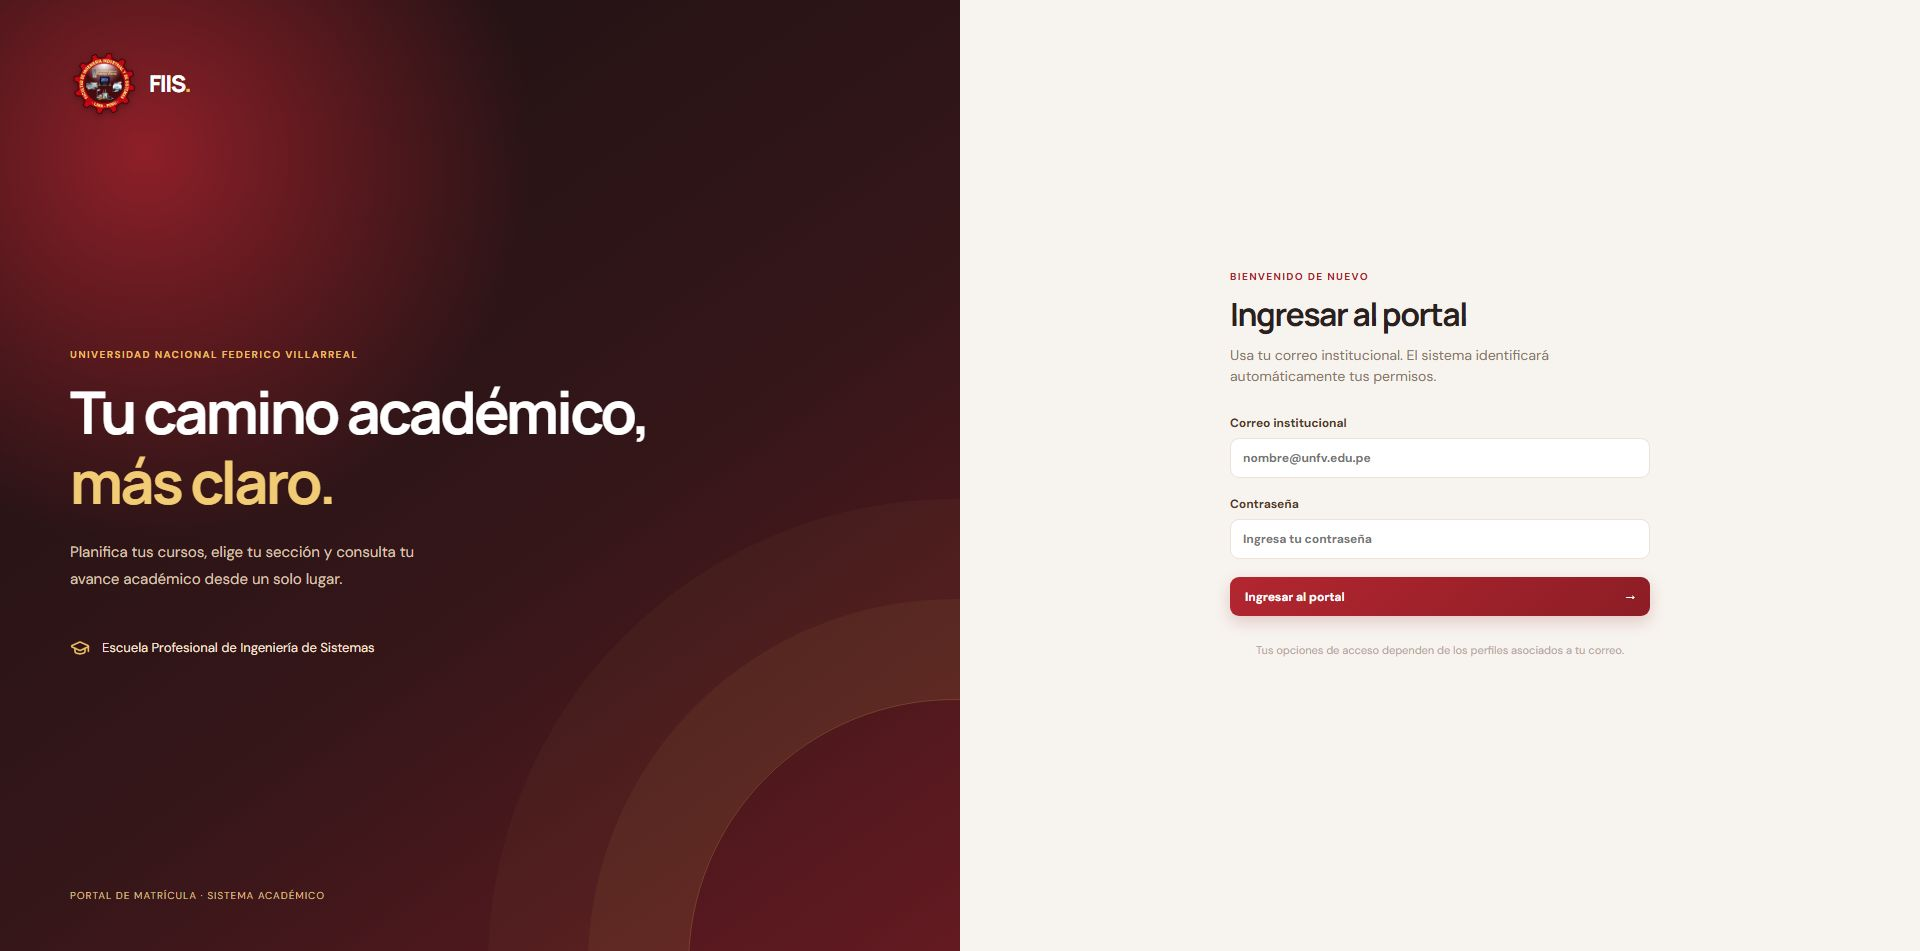
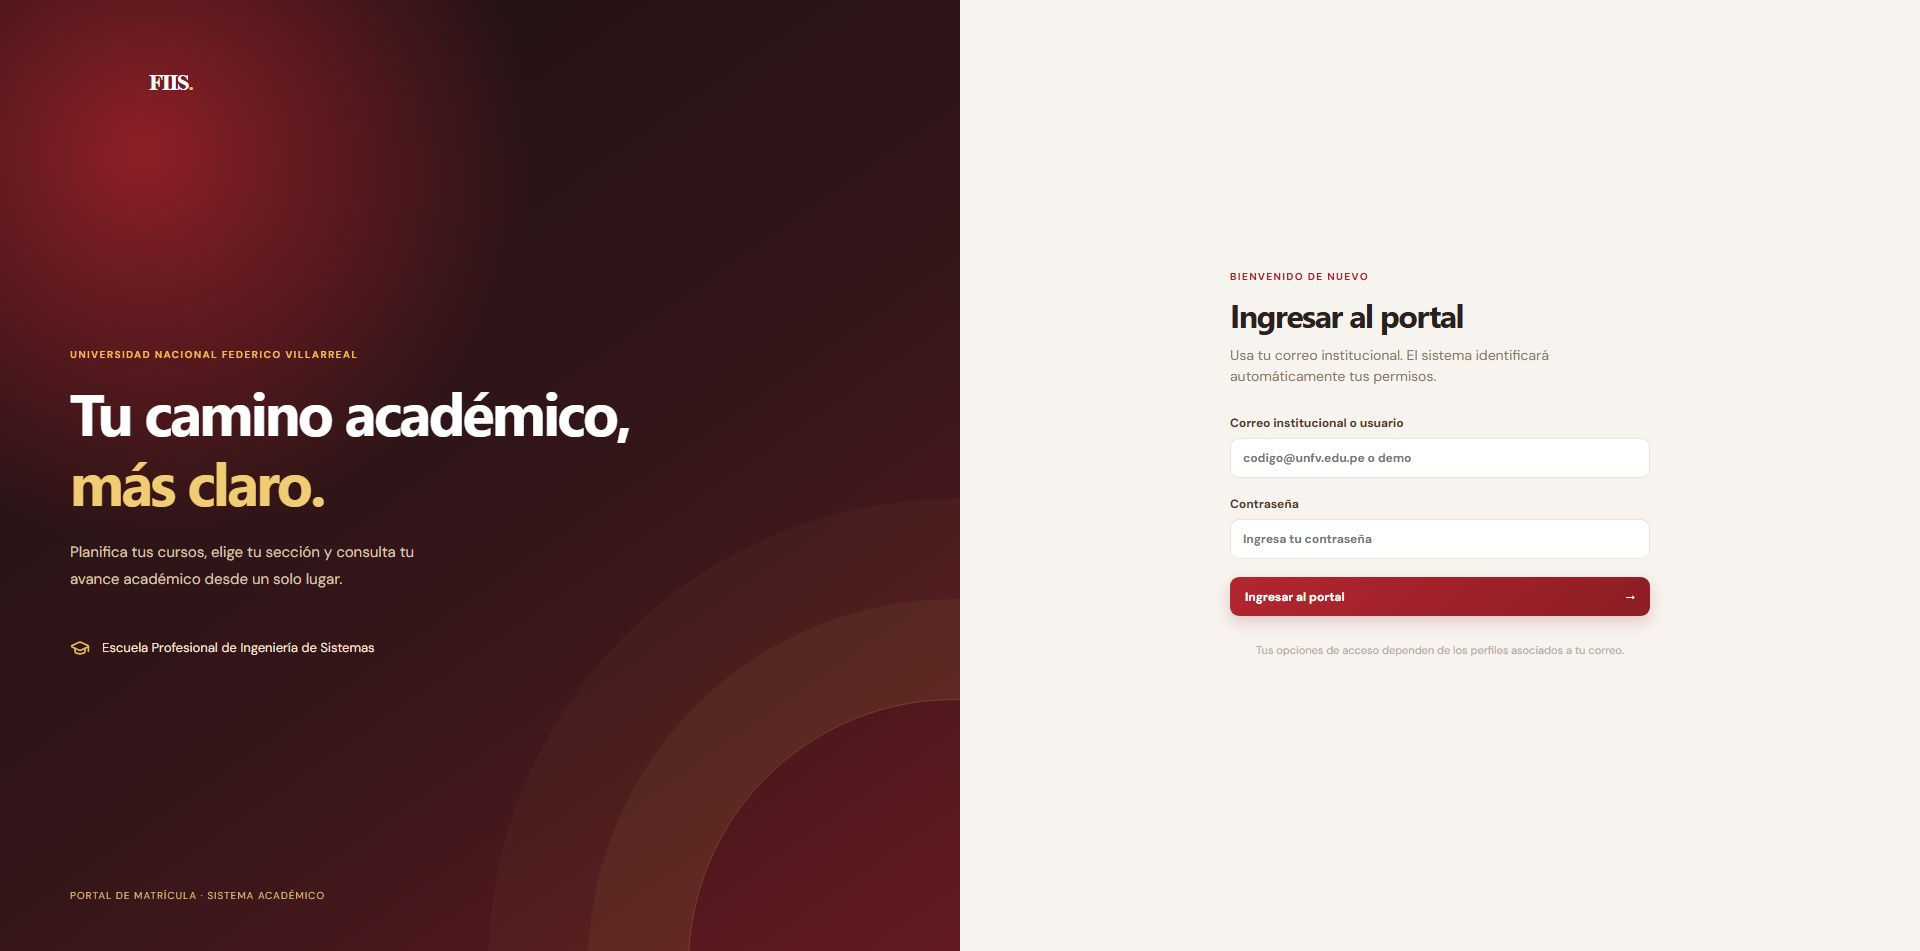
Agregar cuentas de estudiantes y acceso demo unificado

diff --git a/frontend/src/components/Auth.tsx b/frontend/src/components/Auth.tsx
@@ -68,13 +68,13 @@ export function Login({ onLogin }: { onLogin: (identity: Identity) => void }) {
           </p>
           <form onSubmit={submit}>
             <label>
-              Correo institucional
+              Correo institucional o usuario
               <input
-                type="email"
+                type="text"
                 value={email}
                 onChange={(event) => setEmail(event.target.value)}
                 required
-                placeholder="nombre@unfv.edu.pe"
+                placeholder="codigo@unfv.edu.pe o demo"
                 autoComplete="username"
               />
             </label>

diff --git a/backend/core/management/commands/seed_fiis.py b/backend/core/management/commands/seed_fiis.py
@@ -199,51 +199,56 @@ class Command(BaseCommand):
         for r in unmatched:
             self.stdout.write(f"  REVISAR {r['period']} fila {r['row']} {r['name']} / {r['section']}")
         if options["demo_users"]:
-            admin, created = User.objects.get_or_create(
-                username="admin.demo", defaults={"is_staff": True, "is_superuser": True}
-            )
-            if created:
-                admin.set_password("AdminDemo2026!")
-                admin.save()
-            if not admin.email:
-                admin.email = "admin.demo@unfv.edu.pe"
-                admin.save(update_fields=["email"])
-            user, created = User.objects.get_or_create(username="alumno.demo")
-            if created:
-                user.set_password("AlumnoDemo2026!")
+            demo, _ = User.objects.get_or_create(username="demo")
+            demo.email = "demo@unfv.edu.pe"
+            demo.is_staff = True
+            demo.is_superuser = True
+            demo.set_password("demo")
+            demo.save()
+            demo_student = Student.objects.filter(student_code="DEMO2026001").first()
+            if demo_student:
+                demo_student.user = demo
+                demo_student.save(update_fields=["user"])
+            else:
+                demo_student = Student.objects.create(
+                    user=demo, student_code="DEMO2026001", full_name="Alumno de demostración", plan=plan
+                )
+
+            # Migra instalaciones creadas con las tres cuentas demo antiguas.
+            legacy_usernames = ["alumno.demo", "admin.demo", "docente.demo"]
+            Teacher.objects.filter(user__username__in=legacy_usernames).update(user=None)
+            User.objects.filter(username__in=legacy_usernames).update(is_active=False)
+
+            student_codes = ["2024023935", "2024023953", "2024024193", "2024035007", "2024024406"]
+            students = [demo_student]
+            for code in student_codes:
+                user, _ = User.objects.get_or_create(username=code)
+                user.email = f"{code}@unfv.edu.pe"
+                user.set_password(code)
                 user.save()
-            if not user.email:
-                user.email = "alumno.demo@unfv.edu.pe"
-                user.save(update_fields=["email"])
-            student, _ = Student.objects.get_or_create(
-                user=user, defaults={"student_code": "DEMO2026001", "full_name": "Alumno de demostración", "plan": plan}
-            )
+                student = Student.objects.filter(student_code=code).first()
+                if student:
+                    if student.user_id != user.id:
+                        student.user = user
+                        student.save(update_fields=["user"])
+                else:
+                    student = Student.objects.create(
+                        user=user, student_code=code, full_name=f"Alumno {code}", plan=plan
+                    )
+                students.append(student)
+
             example = (
                 Section.objects.filter(period__code="2026-2", teacher__isnull=False, teacher__user__isnull=True)
                 .select_related("teacher")
                 .first()
             )
-            if example and not Teacher.objects.filter(user__username="docente.demo").exists():
-                demo_teacher, created = User.objects.get_or_create(username="docente.demo")
-                if created:
-                    demo_teacher.set_password("DocenteDemo2026!")
-                    demo_teacher.save()
-                example.teacher.user = demo_teacher
+            if example and not Teacher.objects.filter(user=demo).exists():
+                example.teacher.user = demo
                 example.teacher.save(update_fields=["user"])
-            demo_teacher = User.objects.filter(username="docente.demo").first()
-            if demo_teacher and not demo_teacher.email:
-                demo_teacher.email = "docente.demo@unfv.edu.pe"
-                demo_teacher.save(update_fields=["email"])
-            if not hasattr(admin, "teacher"):
-                admin_teacher = (
-                    Teacher.objects.filter(user__isnull=True, section__period__code="2026-2").distinct().first()
-                )
-                if admin_teacher:
-                    admin_teacher.user = admin
-                    admin_teacher.save(update_fields=["user"])
             prev = Period.objects.get(code="2026-1")
-            for course in Course.objects.filter(plan=plan, semester=1):
-                FinalGrade.objects.get_or_create(
-                    student=student, course=course, period=prev, defaults={"score": 15, "passed": True}
-                )
+            for student in students:
+                for course in Course.objects.filter(plan=plan, semester=1):
+                    FinalGrade.objects.get_or_create(
+                        student=student, course=course, period=prev, defaults={"score": 15, "passed": True}
+                    )
             self.stdout.write("Cuentas DEMO activadas. Cambia sus contraseñas antes de usar datos reales.")

diff --git a/backend/core/tests.py b/backend/core/tests.py
@@ -133,11 +133,14 @@ class EnrollmentRulesTests(TestCase):
 class SeedTests(TestCase):
     def test_new_plan_preserves_course_prerequisites(self):
         call_command("seed_fiis", "--demo-users", stdout=StringIO())
-        self.assertEqual(User.objects.get(username="docente.demo").teacher.active, True)
+        self.assertEqual(User.objects.get(username="demo").teacher.active, True)
         call_command("seed_fiis", "--demo-users", stdout=StringIO())
-        self.assertEqual(Teacher.objects.filter(user__username="docente.demo").count(), 1)
+        self.assertEqual(Teacher.objects.filter(user__username="demo").count(), 1)
+        student_codes = ["2024023935", "2024023953", "2024024193", "2024035007", "2024024406"]
+        self.assertEqual(Student.objects.filter(student_code__in=student_codes).count(), 5)
+        self.assertTrue(User.objects.get(username="2024023935").check_password("2024023935"))
         original = Plan.objects.get(name="Ingeniería de Sistemas - malla adjunta")
-        self.client.force_login(User.objects.get(username="admin.demo"))
+        self.client.force_login(User.objects.get(username="demo"))
         import json
 
         response = self.client.post(
@@ -243,7 +246,7 @@ class EndToEndApiTests(TestCase):
         token = client.get("/api/auth/csrf/").json()["csrfToken"]
         response = client.post(
             "/api/auth/login/",
-            data='{"username":"alumno.demo","password":"AlumnoDemo2026!"}',
+            data='{"email":"2024023935@unfv.edu.pe","password":"2024023935"}',
             content_type="application/json",
             HTTP_X_CSRFTOKEN=token,
         )
@@ -271,12 +274,12 @@ class EndToEndApiTests(TestCase):
         token = client.get("/api/auth/csrf/").json()["csrfToken"]
         admin_login = client.post(
             "/api/auth/login/",
-            data='{"email":"admin.demo@unfv.edu.pe","password":"AdminDemo2026!"}',
+            data='{"username":"demo","password":"demo"}',
             content_type="application/json",
             HTTP_X_CSRFTOKEN=token,
         )
         self.assertEqual(admin_login.status_code, 200)
-        self.assertEqual(set(admin_login.json()["roles"]), {"admin", "teacher"})
+        self.assertEqual(set(admin_login.json()["roles"]), {"admin", "teacher", "student"})
         self.assertIsNone(admin_login.json()["role"])
         token = client.get("/api/auth/csrf/").json()["csrfToken"]
         selected_role = client.post(
@@ -299,7 +302,7 @@ class EndToEndApiTests(TestCase):
         self.assertEqual(
             client.post(
                 "/api/auth/login/",
-                data='{"username":"alumno.demo","password":"AlumnoDemo2026!"}',
+                data='{"email":"2024023935@unfv.edu.pe","password":"2024023935"}',
                 content_type="application/json",
                 HTTP_X_CSRFTOKEN=token,
             ).status_code,

diff --git a/README.md b/README.md
@@ -45,11 +45,16 @@ Para Linux/macOS: sustituye `py` por `python3`, la activación por `source .venv
 
 Se crean **únicamente** al pasar `--demo-users`:
 
-| Perfil | Correo | Contraseña |
+| Perfil | Usuario o correo | Contraseña |
 | --- | --- | --- |
-| Alumno | `alumno.demo@unfv.edu.pe` | `AlumnoDemo2026!` |
-| Administrador y docente | `admin.demo@unfv.edu.pe` | `AdminDemo2026!` |
-| Docente con una sección asignada en 2026-2 | `docente.demo@unfv.edu.pe` | `DocenteDemo2026!` |
+| Alumno, docente y administrador | `demo` | `demo` |
+| Alumno | `2024023935@unfv.edu.pe` | `2024023935` |
+| Alumno | `2024023953@unfv.edu.pe` | `2024023953` |
+| Alumno | `2024024193@unfv.edu.pe` | `2024024193` |
+| Alumno | `2024035007@unfv.edu.pe` | `2024035007` |
+| Alumno | `2024024406@unfv.edu.pe` | `2024024406` |
+
+La cuenta `demo` tiene los tres perfiles y muestra el selector de acceso después de iniciar sesión. Las cuentas numéricas tienen aprobados los cursos del primer ciclo para poder probar la prematrícula del segundo ciclo.
 
 La importación es idempotente: se puede repetir y no sobrescribe cambios hechos en registros ya importados. **Si ya importaste la entrega anterior**, ejecutar el comando otra vez no cambiará sus sesiones existentes; para probar esta propuesta usa una base nueva o revisa y modifica los horarios desde administración. Cambia las contraseñas para cualquier entorno accesible a otras personas; en despliegues reales usa una clave secreta larga, `DJANGO_DEBUG=0`, HTTPS, credenciales nuevas, política de copias de seguridad y un método de autenticación institucional.
 
@@ -62,7 +67,7 @@ La importación es idempotente: se puede repetir y no sobrescribe cambios hechos
 5. Para observar el límite de vacantes, el administrador puede modificar la capacidad de una sección antes de que los alumnos se inscriban.
 6. Entra como **docente** para consultar los horarios y los alumnos que ya confirmaron matrícula en tus secciones; exporta un PDF por sección o uno completo. Cada perfil puede actualizar su propia foto en **Mi perfil**.
 
-**Nota:** si durante una prueba ya confirmaste la matrícula de `alumno.demo`, crea otro alumno para repetirla en el mismo período. El sistema impide una segunda confirmación y deja las rectificaciones para administración.
+**Nota:** si durante una prueba una cuenta ya confirmó su matrícula, usa otra de las cuentas de alumno para repetir el flujo en el mismo período. El sistema impide una segunda confirmación y deja las rectificaciones para administración.
 
 ## Datos importados y decisiones de modelado
 

diff --git a/PRIVACY.md b/PRIVACY.md
@@ -2,8 +2,10 @@
 
 Los horarios incluidos en el repositorio conservan cursos, secciones, aulas y
 franjas horarias, pero sustituyen los nombres de docentes por identificadores
-como `DOCENTE 001`. Las cuentas, alumnos y calificaciones incluidas son datos
-ficticios creados por el comando `seed_fiis`.
+como `DOCENTE 001`. Los nombres y calificaciones incluidos son datos de prueba
+creados por `seed_fiis`. Los códigos y correos de acceso entregados para la
+demostración no incluyen nombres; deben reemplazarse antes de publicar si
+corresponden a personas reales.
 
 No deben incorporarse al repositorio bases locales, sesiones, fotografías,
 auditorías o matrículas procedentes de un entorno real. El exportador de
